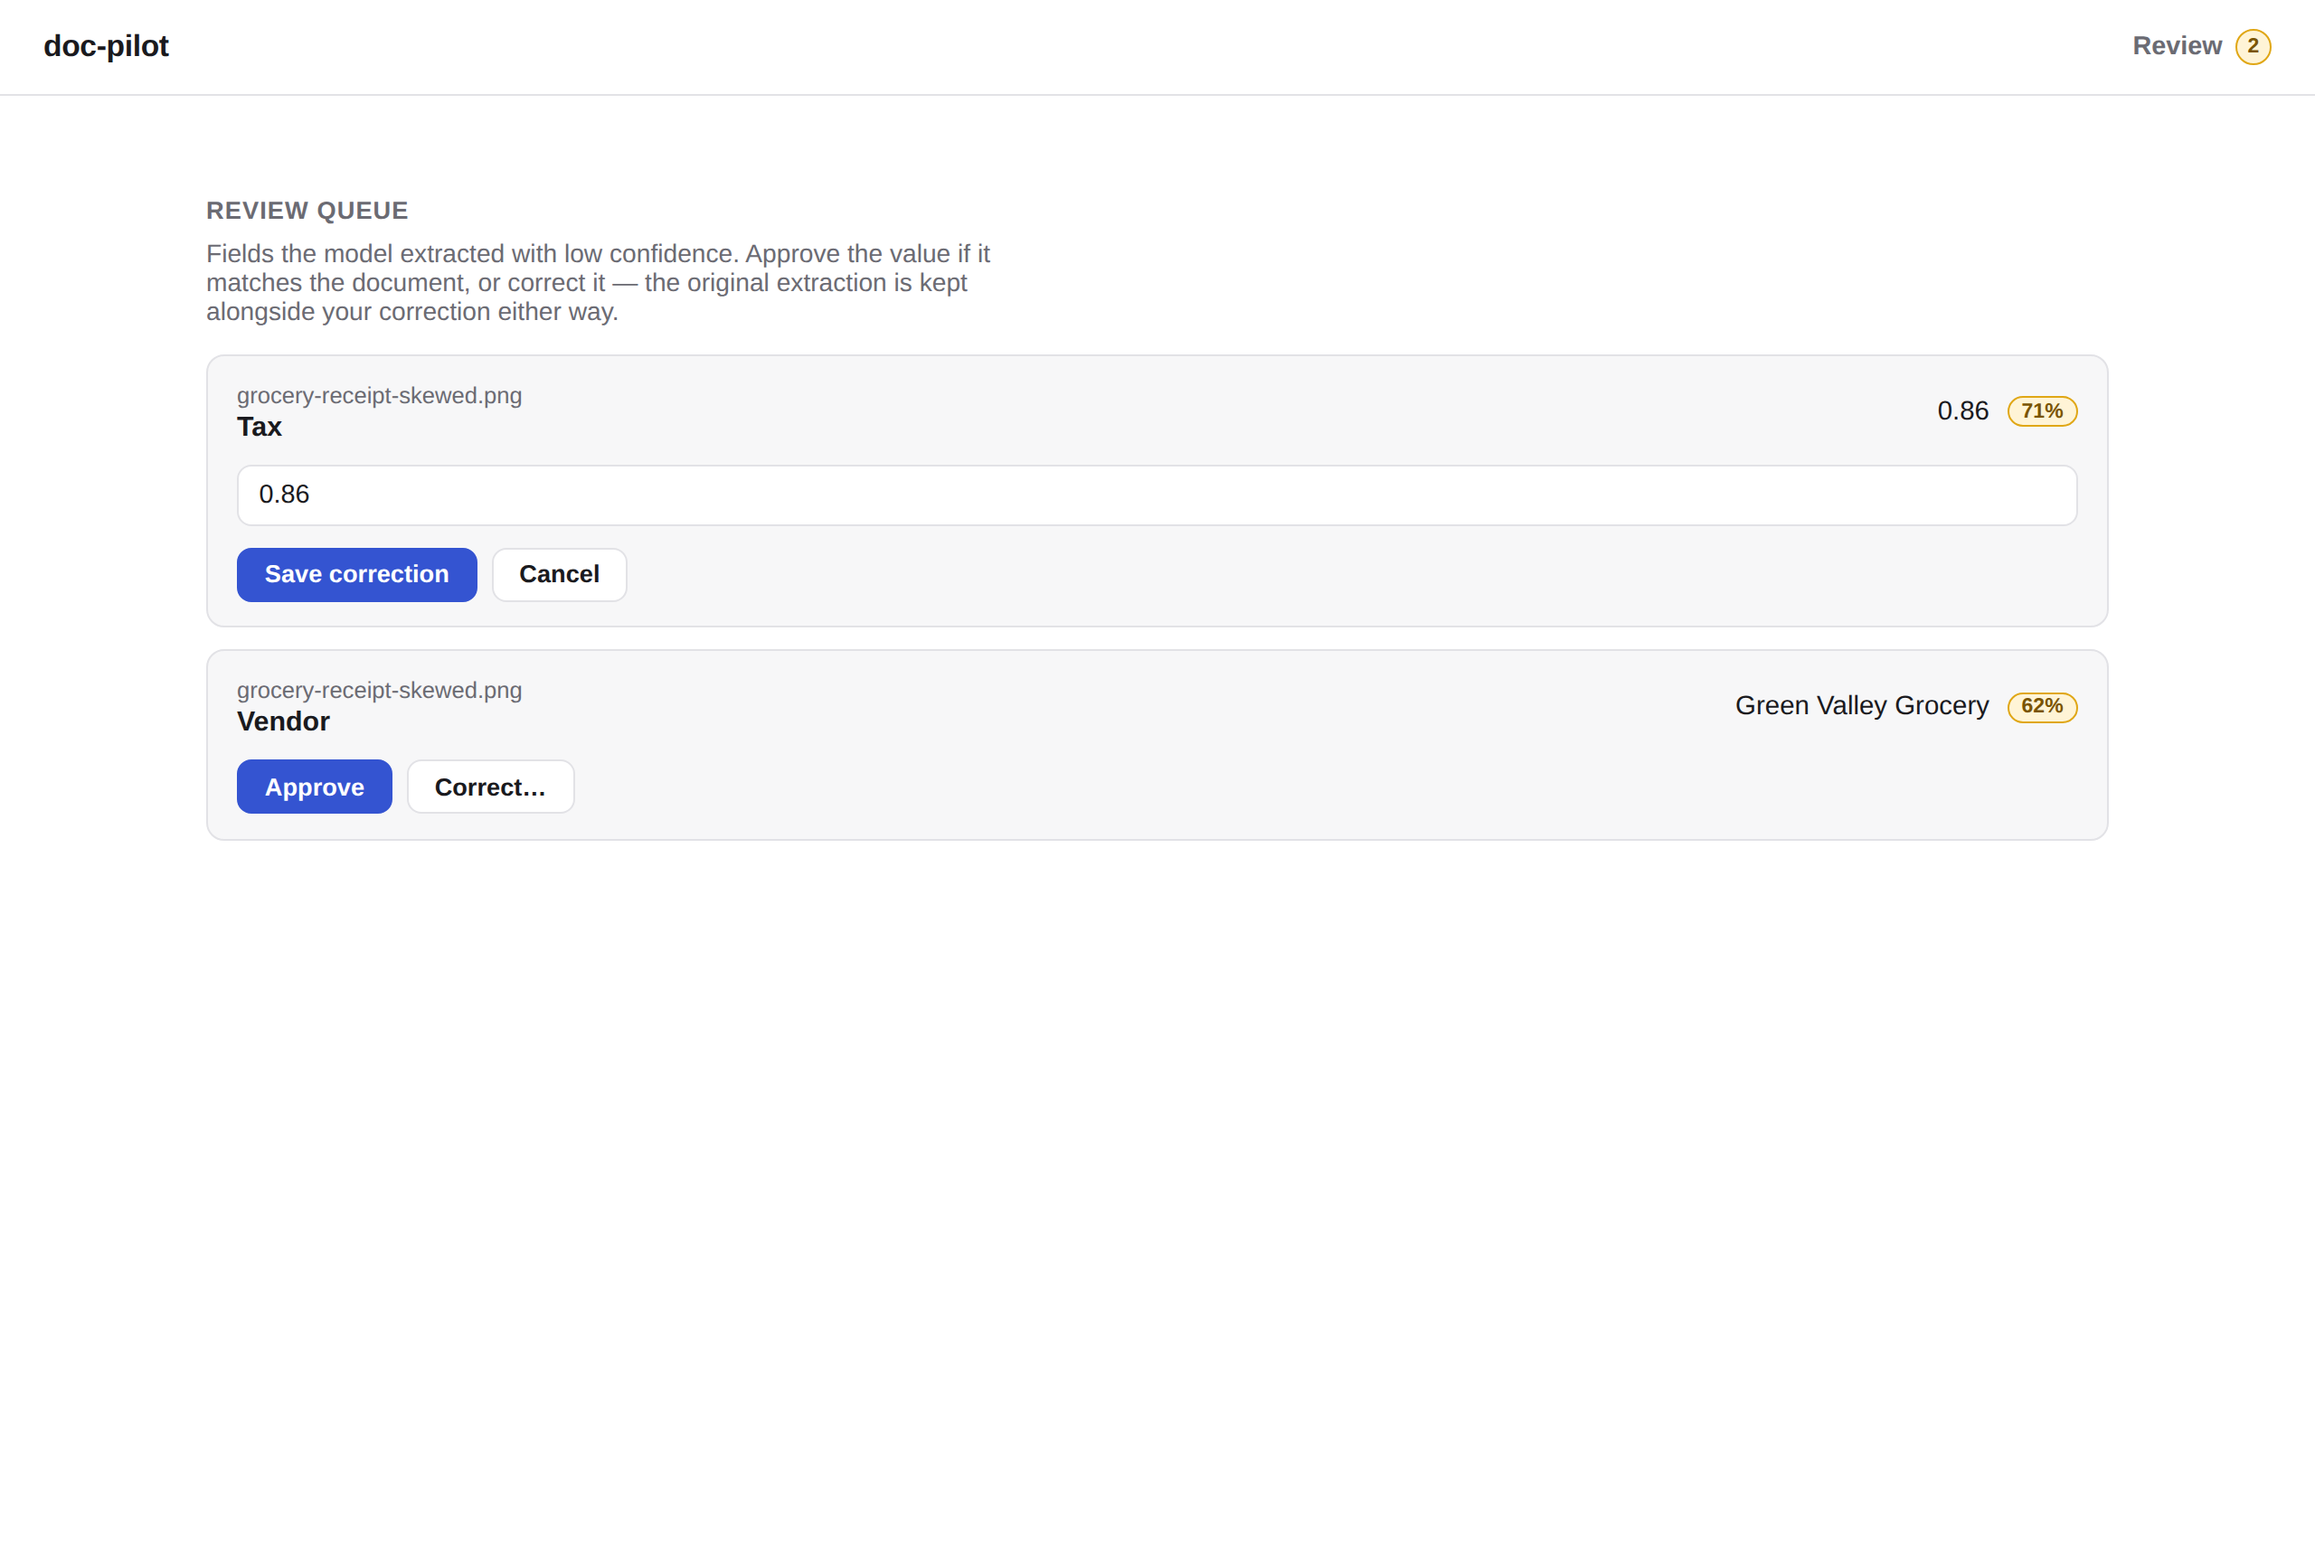
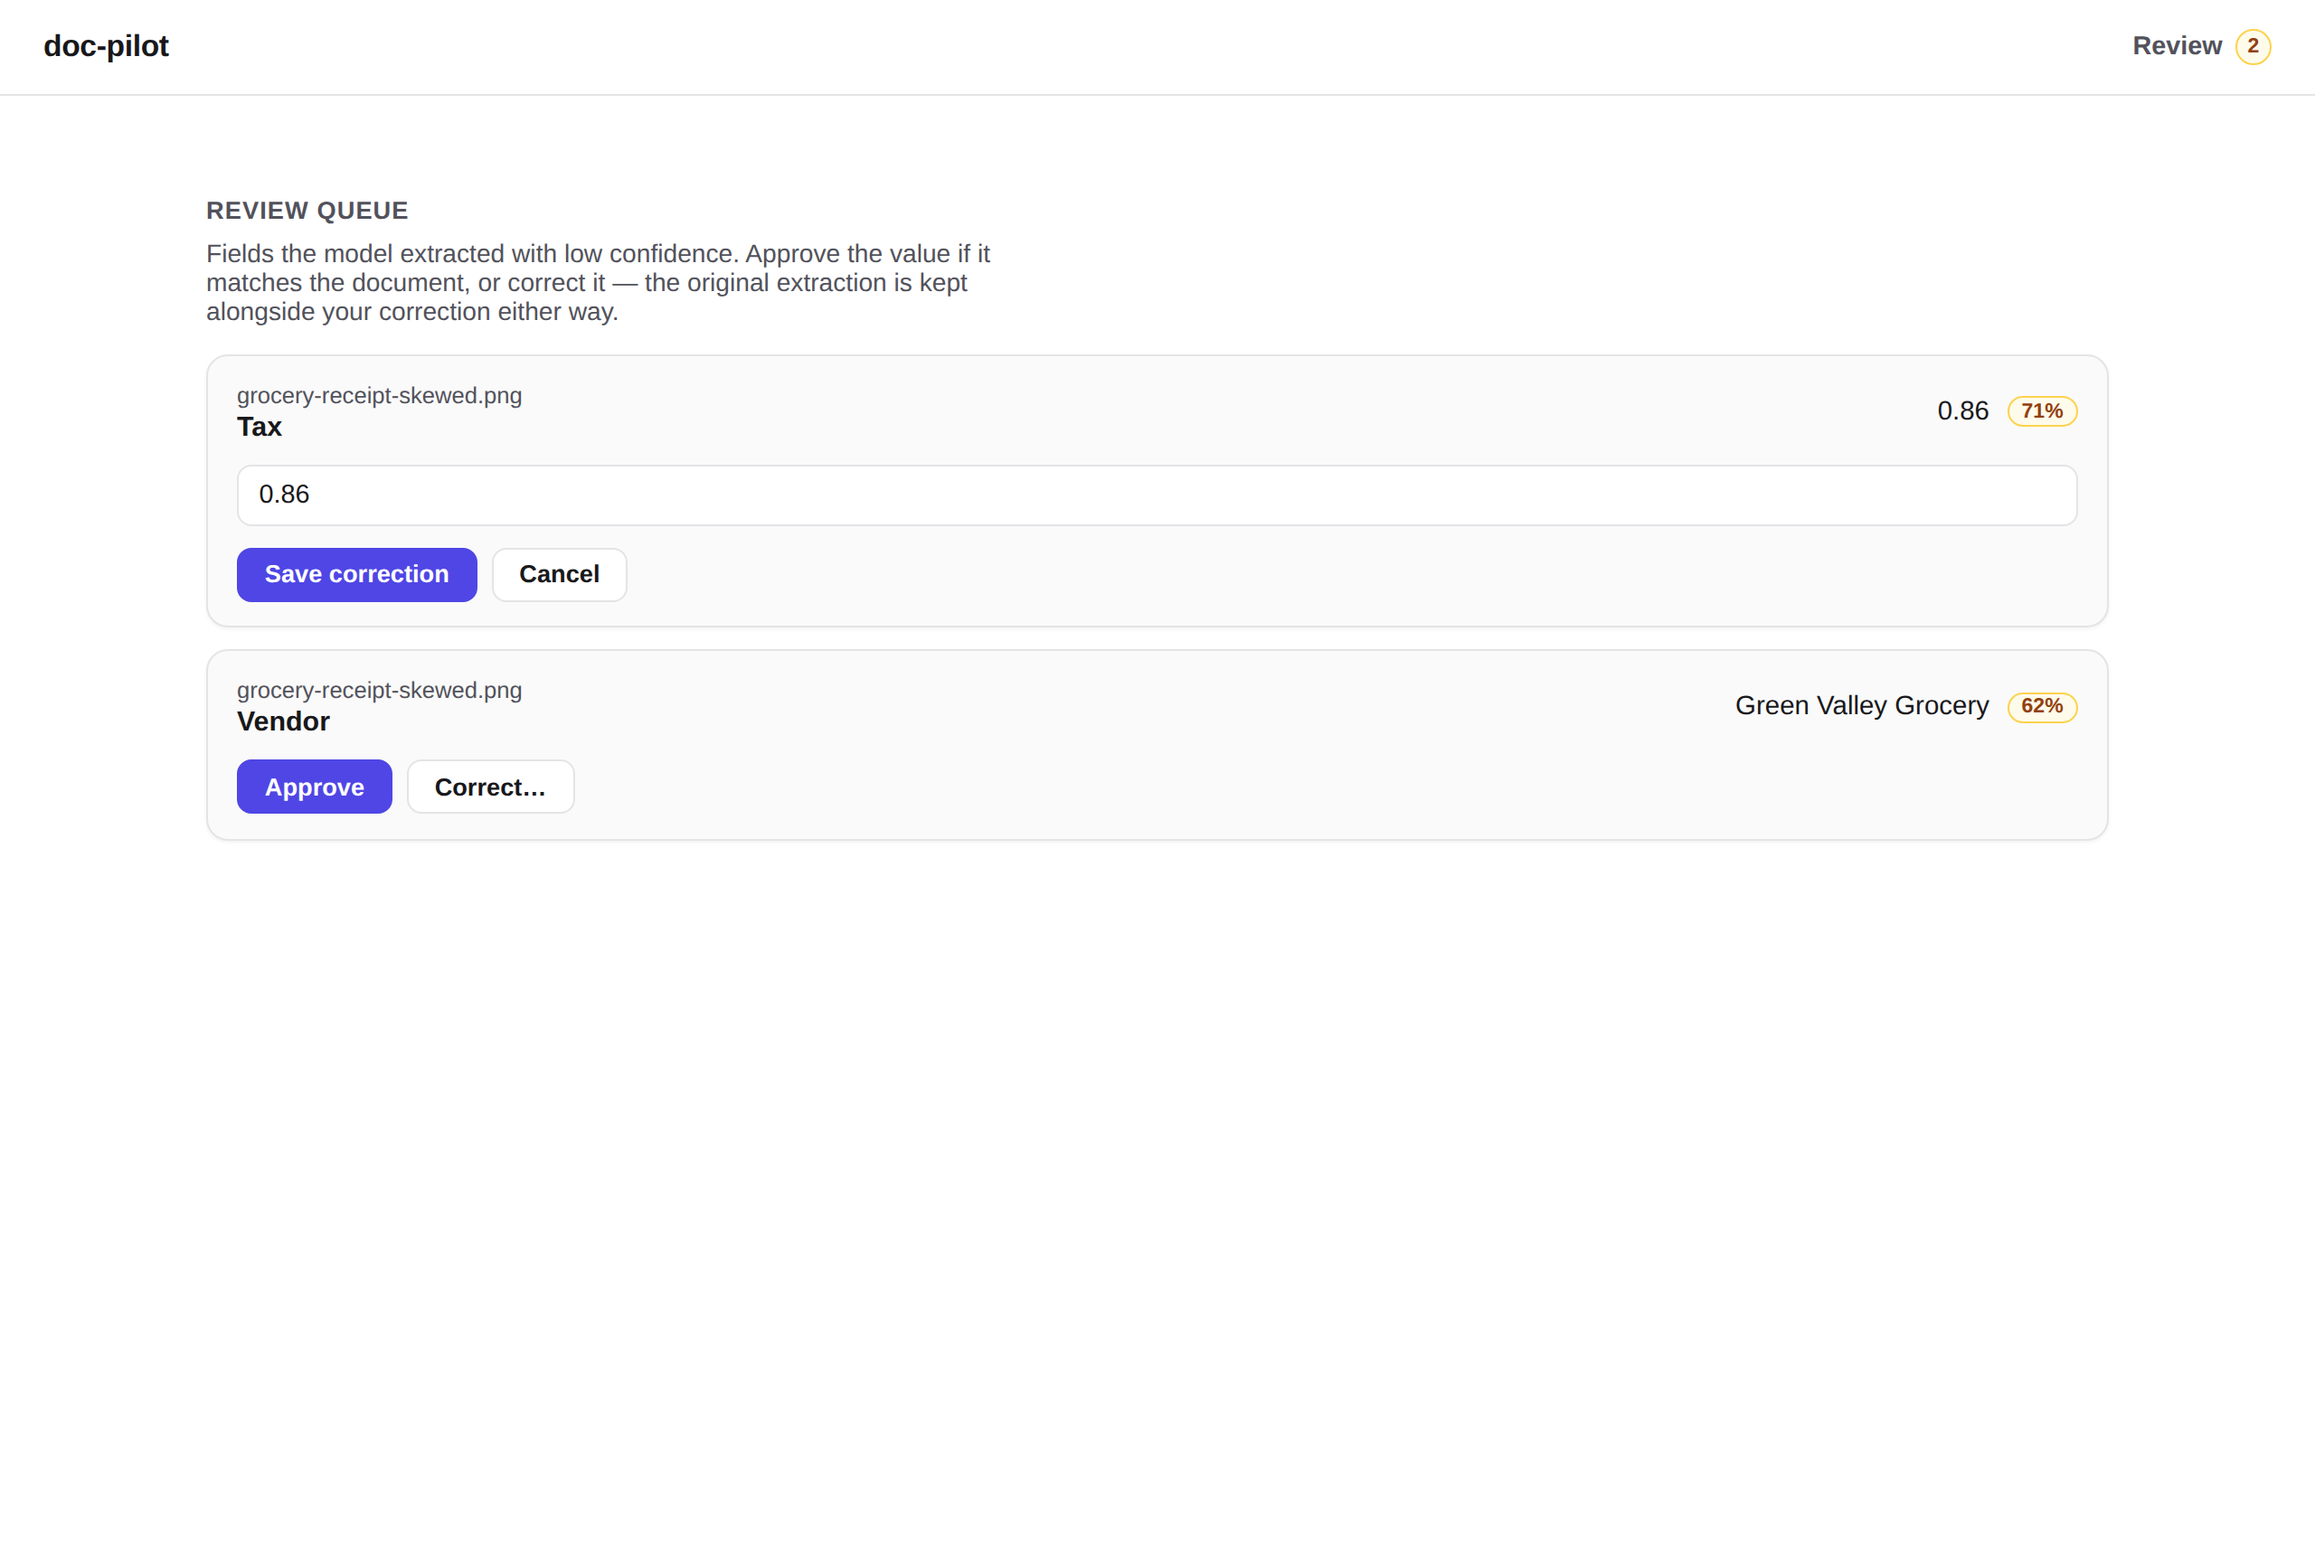
Modernize design system: WCAG-verified palette, focus rings, reduced motion
Design-token pass over globals.css, keeping the existing component
class structure:

- Palette rebuilt on a zinc neutral scale with an indigo accent, tuned
  separately per theme instead of sharing hues across light and dark.
  Every fg/bg pairing (text, links, buttons, status chips, confidence
  badges, both themes) was verified against WCAG 2.1 AA -- all pairs
  now clear 4.5:1, most clear 7:1. Weakest pairs fixed: muted text
  4.97 -> 13.98, dark failed-status chip 4.47 -> 8.70.
- One token-driven :focus-visible ring for every interactive element
  (keyboard-only, replaces the two ad-hoc per-component outlines).
- prefers-reduced-motion support: animations and transitions collapse
  for users who ask for it.
- Radius/shadow tokens (--radius-card/-control, --shadow-card) replace
  hard-coded values; cards get a subtle elevation.
- Sticky translucent header with backdrop blur; tabular numerals on
  timestamps, line-item tables, and the cost/latency footer so columns
  of figures align.
- Screenshots recaptured with the new design (same filenames, README
  unchanged).

Claude-Session: https://claude.ai/code/session_012cefb3YRhh7mHvLNSqn8GG

diff --git a/frontend/src/app/globals.css b/frontend/src/app/globals.css
@@ -1,46 +1,57 @@
+/* Design tokens. Every fg/bg pairing below is WCAG 2.1 AA-checked
+   (>= 4.5:1, most >= 7:1) in both themes -- neutrals are a zinc scale,
+   the accent is indigo, and status/confidence colors are tuned per
+   theme rather than shared, since a hue that reads well on white
+   rarely survives a dark surface unchanged. */
 :root {
   --background: #ffffff;
-  --surface: #f7f7f8;
-  --border: #e2e2e6;
-  --foreground: #1a1a1e;
-  --muted: #6b6b73;
-  --accent: #3454d1;
+  --surface: #fafafa;
+  --border: #e4e4e7;
+  --foreground: #18181b;
+  --muted: #52525b;
+  --accent: #4f46e5;
   --accent-contrast: #ffffff;
 
-  --status-uploaded: #6b6b73;
-  --status-processing: #b8860b;
-  --status-extracted: #1f8a4c;
-  --status-failed: #c23b3b;
+  --status-uploaded: #52525b;
+  --status-processing: #b45309;
+  --status-extracted: #15803d;
+  --status-failed: #b91c1c;
 
-  --confidence-low-bg: #fff4d6;
-  --confidence-low-border: #e0a716;
-  --confidence-low-fg: #7a5400;
-  --confidence-ok-bg: #eef1f8;
-  --confidence-ok-border: #c7cee3;
-  --confidence-ok-fg: #3d4560;
+  --confidence-low-bg: #fffbeb;
+  --confidence-low-border: #fcd34d;
+  --confidence-low-fg: #92400e;
+  --confidence-ok-bg: #eef2ff;
+  --confidence-ok-border: #c7d2fe;
+  --confidence-ok-fg: #3730a3;
+
+  --radius-card: 12px;
+  --radius-control: 8px;
+  --shadow-card: 0 1px 2px rgb(0 0 0 / 0.05);
 }
 
 @media (prefers-color-scheme: dark) {
   :root {
-    --background: #101014;
-    --surface: #17171c;
-    --border: #2b2b32;
-    --foreground: #ececef;
-    --muted: #9a9aa2;
-    --accent: #7d93ff;
-    --accent-contrast: #101014;
+    --background: #0b0b0e;
+    --surface: #16161a;
+    --border: #26262c;
+    --foreground: #f4f4f5;
+    --muted: #a1a1aa;
+    --accent: #a5b0ff;
+    --accent-contrast: #16161a;
 
-    --status-uploaded: #9a9aa2;
-    --status-processing: #e0b84a;
-    --status-extracted: #4bcf85;
-    --status-failed: #ff6b6b;
+    --status-uploaded: #a1a1aa;
+    --status-processing: #fbbf24;
+    --status-extracted: #4ade80;
+    --status-failed: #fca5a5;
 
-    --confidence-low-bg: #3a2f0d;
-    --confidence-low-border: #7a5f16;
-    --confidence-low-fg: #f0c542;
-    --confidence-ok-bg: #1d2130;
-    --confidence-ok-border: #333a52;
-    --confidence-ok-fg: #b6bfe0;
+    --confidence-low-bg: #33270a;
+    --confidence-low-border: #a16207;
+    --confidence-low-fg: #fcd34d;
+    --confidence-ok-bg: #1d2040;
+    --confidence-ok-border: #4348a2;
+    --confidence-ok-fg: #b3bcff;
+
+    --shadow-card: 0 1px 2px rgb(0 0 0 / 0.4);
   }
 
   html {
@@ -81,12 +92,41 @@ a {
   text-decoration: none;
 }
 
+/* One consistent, token-driven focus ring for every interactive element.
+   :focus-visible (not :focus) keeps it keyboard-only. */
+a:focus-visible,
+button:focus-visible,
+input:focus-visible,
+select:focus-visible,
+textarea:focus-visible,
+[role="button"]:focus-visible {
+  outline: 2px solid var(--accent);
+  outline-offset: 2px;
+  border-radius: var(--radius-control);
+}
+
+@media (prefers-reduced-motion: reduce) {
+  *,
+  *::before,
+  *::after {
+    animation-duration: 0.01ms !important;
+    animation-iteration-count: 1 !important;
+    transition-duration: 0.01ms !important;
+  }
+}
+
 .site-header {
+  position: sticky;
+  top: 0;
+  z-index: 10;
   display: flex;
   align-items: center;
   justify-content: space-between;
   padding: 1rem 1.5rem;
   border-bottom: 1px solid var(--border);
+  background: color-mix(in srgb, var(--background) 85%, transparent);
+  backdrop-filter: blur(8px);
+  -webkit-backdrop-filter: blur(8px);
 }
 
 .site-title {
@@ -108,7 +148,7 @@ a {
 .upload-zone {
   position: relative;
   border: 1.5px dashed var(--border);
-  border-radius: 10px;
+  border-radius: var(--radius-card);
   padding: 2.5rem 1.5rem;
   text-align: center;
   color: var(--muted);
@@ -157,8 +197,9 @@ a {
 .doc-list {
   margin-top: 1.5rem;
   border: 1px solid var(--border);
-  border-radius: 10px;
+  border-radius: var(--radius-card);
   overflow: hidden;
+  box-shadow: var(--shadow-card);
 }
 
 .doc-row {
@@ -192,6 +233,7 @@ a {
   color: var(--muted);
   font-size: 0.82rem;
   white-space: nowrap;
+  font-variant-numeric: tabular-nums;
 }
 
 .empty-state,
@@ -201,7 +243,7 @@ a {
   text-align: center;
   color: var(--muted);
   border: 1px solid var(--border);
-  border-radius: 10px;
+  border-radius: var(--radius-card);
   background: var(--surface);
 }
 
@@ -306,7 +348,7 @@ a {
 
 .doc-preview {
   border: 1px solid var(--border);
-  border-radius: 10px;
+  border-radius: var(--radius-card);
   overflow: hidden;
   background: var(--surface);
   min-height: 300px;
@@ -329,9 +371,10 @@ a {
 
 .results-panel {
   border: 1px solid var(--border);
-  border-radius: 10px;
+  border-radius: var(--radius-card);
   padding: 1.25rem;
   background: var(--surface);
+  box-shadow: var(--shadow-card);
 }
 
 .status-panel {
@@ -431,6 +474,7 @@ a {
   border-collapse: collapse;
   font-size: 0.85rem;
   margin-top: 0.25rem;
+  font-variant-numeric: tabular-nums;
 }
 
 .line-items-table th {
@@ -468,6 +512,7 @@ a {
   border-top: 1px solid var(--border);
   font-size: 0.8rem;
   color: var(--muted);
+  font-variant-numeric: tabular-nums;
 }
 
 .footer-strip strong {
@@ -531,9 +576,10 @@ a {
 
 .review-row {
   border: 1px solid var(--border);
-  border-radius: 10px;
+  border-radius: var(--radius-card);
   background: var(--surface);
   padding: 0.85rem 1rem;
+  box-shadow: var(--shadow-card);
 }
 
 .review-row-main {
@@ -583,16 +629,11 @@ a {
   width: 100%;
   padding: 0.5rem 0.7rem;
   border: 1px solid var(--border);
-  border-radius: 8px;
+  border-radius: var(--radius-control);
   background: var(--background);
   color: var(--foreground);
   font-size: 0.9rem;
   font-family: inherit;
-}
-
-.review-input:focus-visible {
-  outline: 2px solid var(--accent);
-  outline-offset: 1px;
 }
 
 .review-textarea {
@@ -610,17 +651,22 @@ a {
 .btn {
   padding: 0.4rem 0.9rem;
   border: 1px solid var(--border);
-  border-radius: 8px;
+  border-radius: var(--radius-control);
   background: var(--background);
   color: var(--foreground);
   font-size: 0.85rem;
   font-weight: 600;
   cursor: pointer;
-  transition: background-color 0.1s ease, border-color 0.1s ease;
+  transition: background-color 0.1s ease, border-color 0.1s ease,
+    transform 0.05s ease;
 }
 
 .btn:hover:not(:disabled) {
   border-color: var(--accent);
+}
+
+.btn:active:not(:disabled) {
+  transform: translateY(1px);
 }
 
 .btn:disabled {
